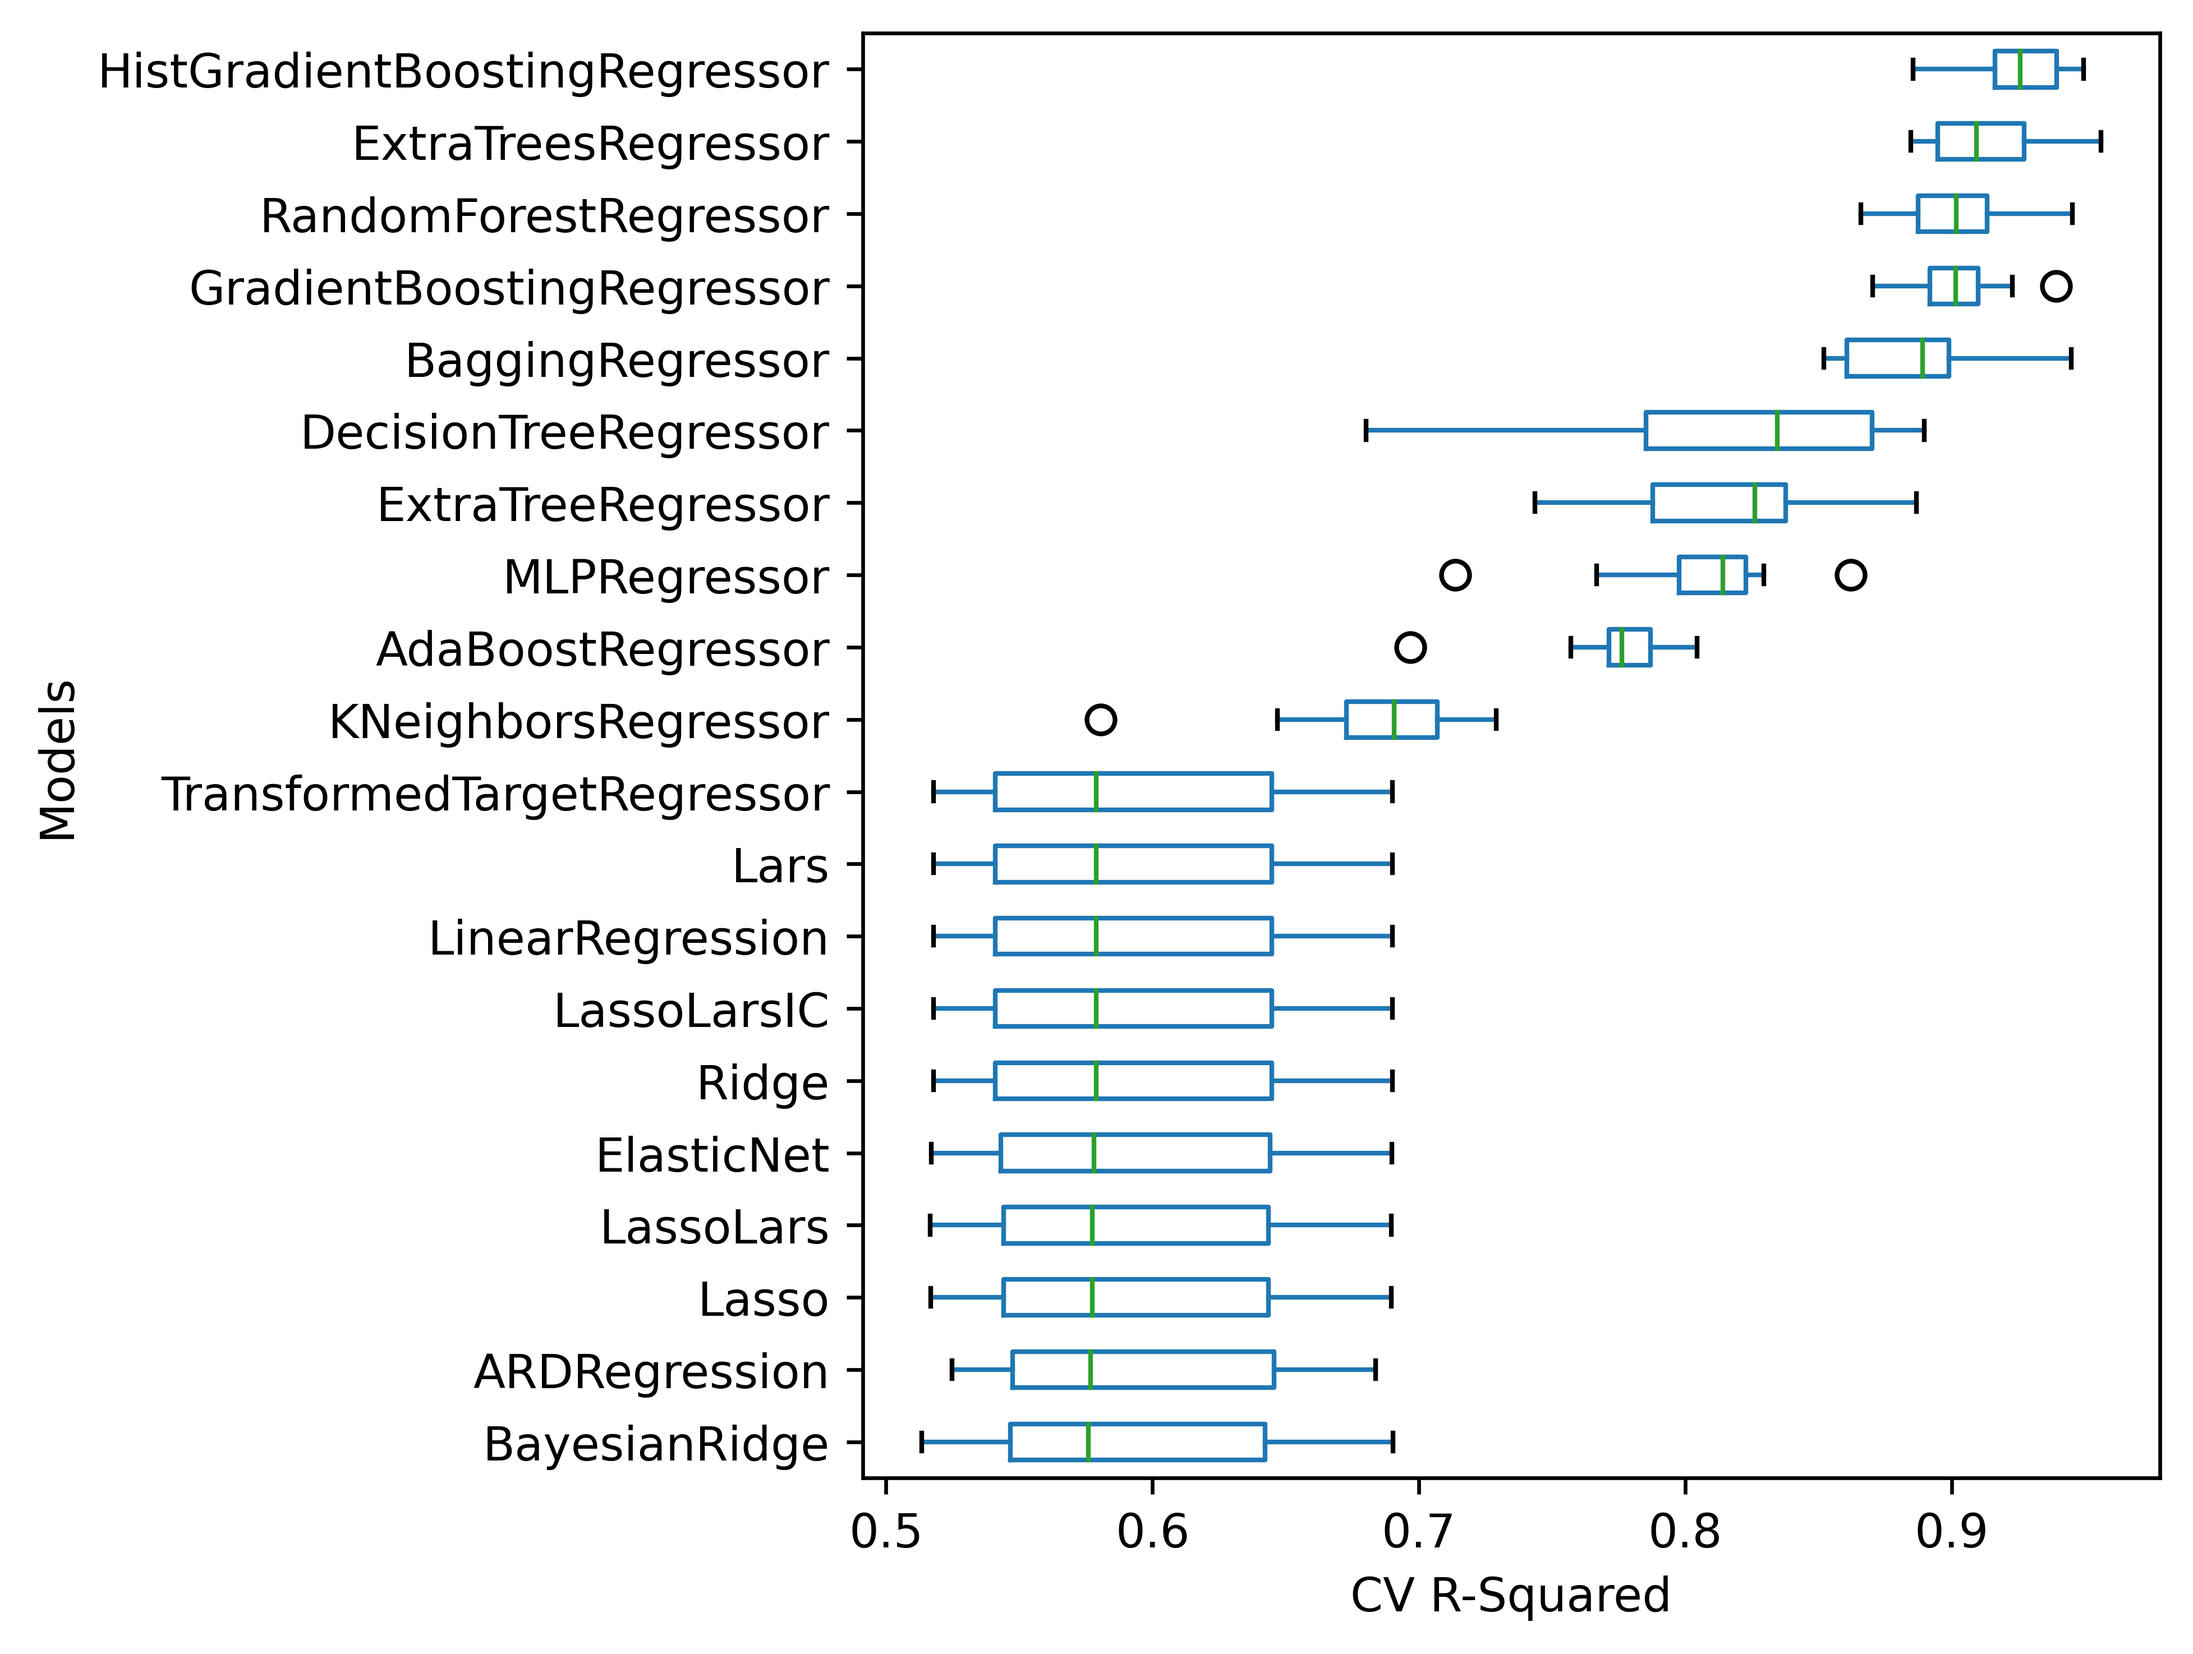
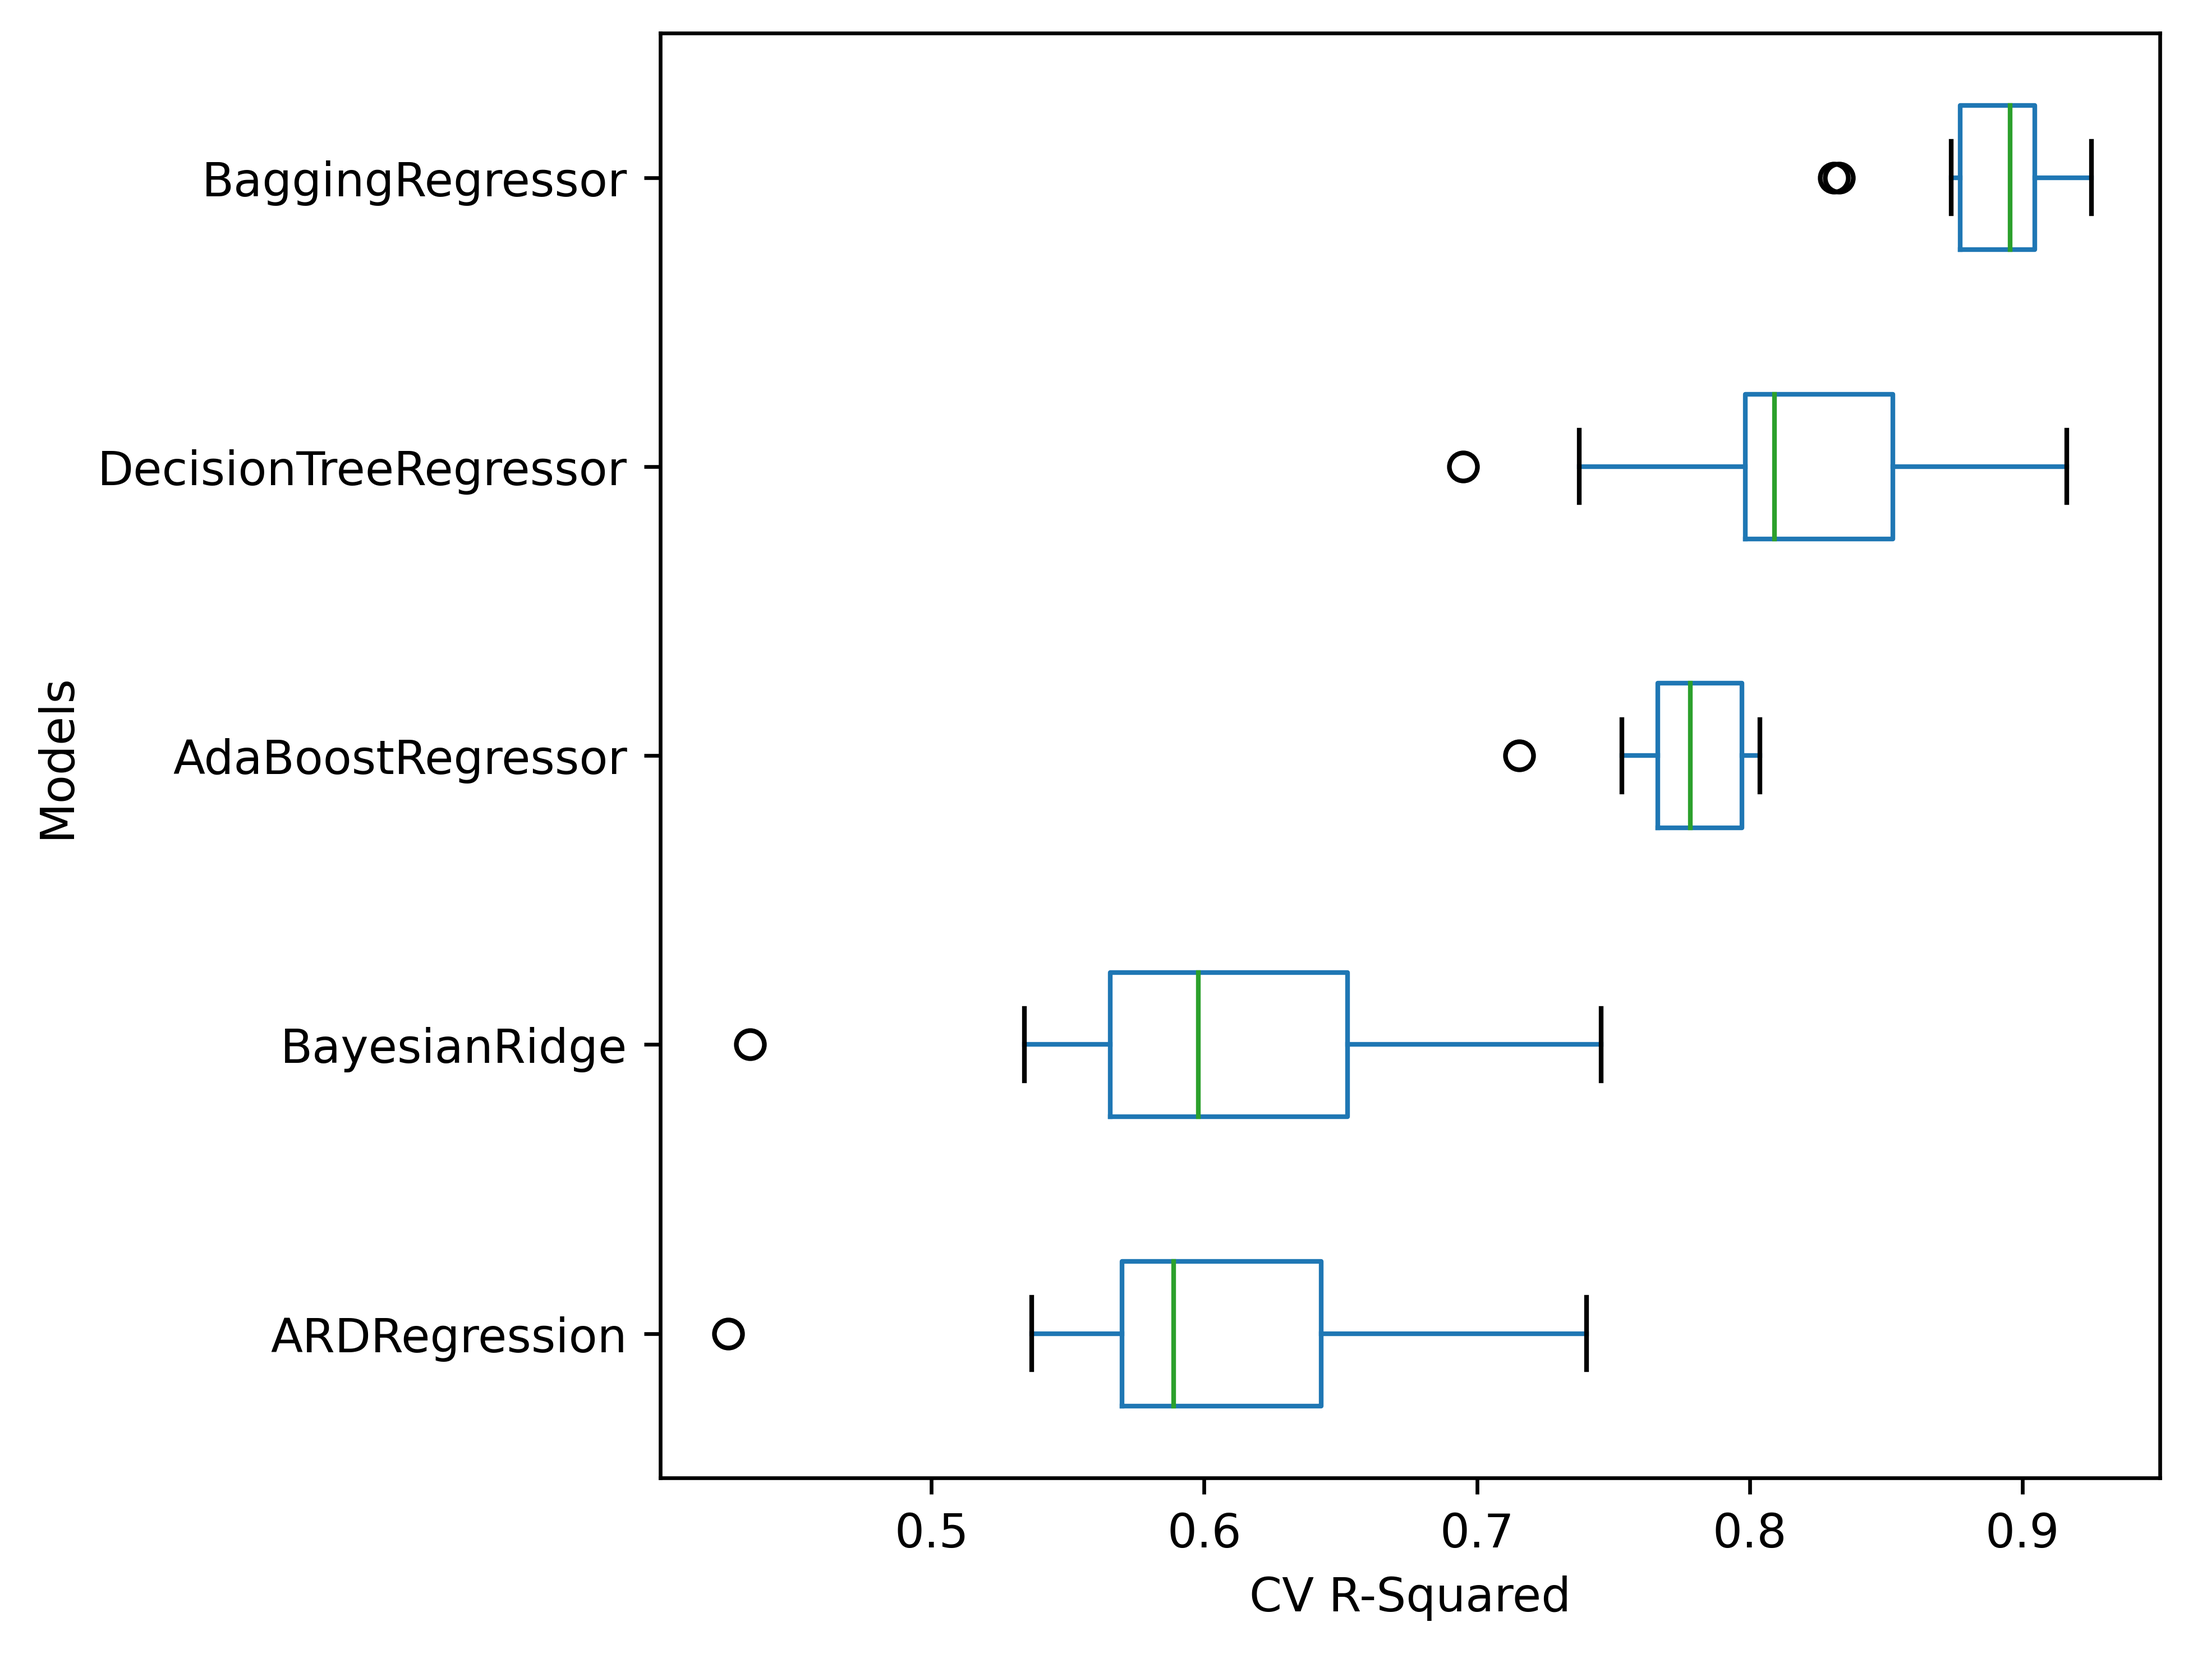
started parameterizing

diff --git a/AutoML/ScikitLearn/parSim_v5/utils.py b/AutoML/ScikitLearn/parSim_v5/utils.py
@@ -71,14 +71,14 @@ def create_strat_cat(raw_data) -> pd.DataFrame:
     data_w_strat_cat = raw_data
     return data_w_strat_cat, strat_label
 
-def data_split(datapath) -> pd.DataFrame:
+def data_split(datapath, test_set_size) -> pd.DataFrame:
     """
     This function will take a relative datapath of a dataset in csv format and will split the data into training attributes, 
     training labels, test attributes, and test labels according to the distribution of a categorical class label.
     """
     raw_data = load_data(datapath)
     data_w_strat_cat, strat_label = create_strat_cat(raw_data)
-    split = StratifiedShuffleSplit(n_splits=1,test_size=0.2,random_state=42)
+    split = StratifiedShuffleSplit(n_splits=1,test_size=test_set_size)
     for train_index, test_index in split.split(data_w_strat_cat,data_w_strat_cat[f"{strat_label}_cat"]):
         train_set = data_w_strat_cat.loc[train_index]
         test_set = data_w_strat_cat.loc[test_index]
@@ -95,10 +95,10 @@ def data_split(datapath) -> pd.DataFrame:
 
     return train_attrib, train_labels, test_attrib, test_labels
 
-def gen_cv_samples(X_train_df, y_train_df):
+def gen_cv_samples(X_train_df, y_train_df, n_cv_folds):
     """
     Generates a nested array of length k (where k is the number of cv folds)
-    Each sub-tuple contains 9 folds formed into training data and a 10th left out as test data
+    Each sub-tuple contains k folds formed into training data and the k+1 fold left out as test data
     
     Args: 
         X_train (nd.array) - Training data already processed
@@ -108,7 +108,7 @@ def gen_cv_samples(X_train_df, y_train_df):
         train/test data (tuples) - nested_samples gets broken down into four list
     """
     X_train, y_train = X_train_df.values, y_train_df.values
-    kf = KFold(n_splits = 10, shuffle = True, random_state = 2)
+    kf = KFold(n_splits = n_cv_folds, shuffle = True)
     kf_indices = [(train, test) for train, test in kf.split(X_train, y_train)]
     nested_samples = [(X_train[train_idxs], y_train[train_idxs], X_train[test_idxs], y_train[test_idxs]) for train_idxs, test_idxs in kf_indices]
     X_tr, y_tr, X_te, y_te = [], [], [], []
@@ -118,7 +118,7 @@ def gen_cv_samples(X_train_df, y_train_df):
 
     return (X_tr, y_tr, X_te, y_te)
 
-def comparison(datapath, n_regressors, metric_list, n_vizualized, metric_help, score_method='Root Mean Squared Error') -> None:
+def comparison(datapath, n_regressors, metric_list, metric_help, n_vizualized_bp=-1, n_vizualized_tb=-1, test_set_size=0.2, n_cv_folds=10, score_method='Root Mean Squared Error') -> None:
     """
     This function will perform cross-validation training across multiple regressor types for one dataset. 
     The cross-validation scores will be vizualized in a box plot chart, displaying regressor performance across
@@ -128,16 +128,16 @@ def comparison(datapath, n_regressors, metric_list, n_vizualized, metric_help, s
     """
     regs, reg_names = get_all_regs()
     regs, reg_names = regs[0:n_regressors], reg_names[0:n_regressors]
-    train_attrib, train_labels, test_attrib, test_labels = data_split(datapath)
+    train_attrib, train_labels, test_attrib, test_labels = data_split(datapath, test_set_size)
 
     metric_list = [score_method] + metric_list
     for i, item in enumerate(metric_list[1:]):
         if item == metric_list[0]:
             del metric_list[i+1]
 
-    cv_X_train, cv_y_train, cv_X_test, cv_y_test = gen_cv_samples(train_attrib, train_labels)
+    cv_X_train, cv_y_train, cv_X_test, cv_y_test = gen_cv_samples(train_attrib, train_labels, n_cv_folds)
     start = perf_counter()
-    args_lst = [(regs[i // 10], reg_names[i // 10], metric_list, metric_help, cv_X_train[i % 10], cv_y_train[i % 10], cv_X_test[i % 10], cv_y_test[i % 10]) for i in range(len(regs) * 10)]
+    args_lst = [(regs[i // n_cv_folds], reg_names[i // n_cv_folds], metric_list, metric_help, cv_X_train[i % n_cv_folds], cv_y_train[i % n_cv_folds], cv_X_test[i % n_cv_folds], cv_y_test[i % n_cv_folds]) for i in range(len(regs) * n_cv_folds)]
     multiprocessing.set_start_method("spawn")
     with multiprocessing.Pool(processes=8) as pool:
         results = pool.starmap(run, args_lst)
@@ -151,14 +151,14 @@ def comparison(datapath, n_regressors, metric_list, n_vizualized, metric_help, s
             else:
                 org_results[reg_name] = [single_reg_dict]
 
-    fin_org_results = {k: v for k,v in org_results.items() if len(v) == 10}
+    fin_org_results = {k: v for k,v in org_results.items() if len(v) == n_cv_folds}
 
     stop = perf_counter()
     print(f"Time to execute regression: {stop - start:.2f}s")
 
-    figs = [test_best(fin_org_results, metric_list, test_attrib, test_labels, metric_help)]
+    figs = [test_best(fin_org_results, metric_list, test_attrib, test_labels, metric_help, n_vizualized_tb)]
     for index in range(len(metric_list)):
-        figs += [boxplot(fin_org_results, metric_list, metric_help, n_vizualized, index)]
+        figs += [boxplot(fin_org_results, metric_list, metric_help, n_vizualized_bp, index)]
     for k in range(len(figs)):
         figs[k].savefig(f'AutoML/ScikitLearn/parSim_v5/par_1/figure_{k}.png', bbox_inches='tight', dpi=600.0)
     pass
@@ -185,7 +185,7 @@ def run(reg, reg_name, metric_list, metric_help, train_attrib, train_labels, tes
         pass
 
 
-def boxplot(fin_org_results, metric_list, metric_help, n_vizualized, index):
+def boxplot(fin_org_results, metric_list, metric_help, n_vizualized_bp, index):
     """
     This function will return a box plot chart displaying the cross-validation scores of various regressors for a given metric.
     The box plot chart will be in descending order by median performance. The chart will be saved to the user's CPU as a png file.
@@ -203,16 +203,13 @@ def boxplot(fin_org_results, metric_list, metric_help, n_vizualized, index):
     df_sorted = df[sorted_index]
 
     #Creating box plot figure of best n regressors.
-    df_sorted.iloc[:,len(df_sorted.columns)-n_vizualized:].boxplot(vert=False,grid=False)
+    df_sorted.iloc[:,len(df_sorted.columns)-n_vizualized_bp:].boxplot(vert=False,grid=False)
     plt.xlabel(f'CV {metric}')
     plt.ylabel('Models')
     return boxfig
 
 
-
-
-
-def test_best(fin_org_results, metric_list, test_attrib, test_labels, metric_help):
+def test_best(fin_org_results, metric_list, test_attrib, test_labels, metric_help, n_vizualized_tb):
     """
     This function will take the best performing model on each regressor type generated by cross-validation training and 
     apply it to the set of test data. The performance of the regs on the test instances will be displayed on a table and
@@ -243,13 +240,15 @@ def test_best(fin_org_results, metric_list, test_attrib, test_labels, metric_hel
 
     df = pd.DataFrame(data=output, index=rows, columns=columns)
 
-    sorted_df = df.sort_values(by=columns[0], axis=0, ascending=not(metric_help[columns[0]][0]))
-    print(sorted_df)
+    df_sorted = df.sort_values(by=columns[0], axis=0, ascending=not(metric_help[columns[0]][0]))
+    print(df_sorted)
+
+    df_sorted = df_sorted.iloc[:n_vizualized_tb]
 
     fig, ax = plt.subplots()
     fig.patch.set_visible(False)
     ax.axis('off')
     ax.axis('tight')
-    ax.table(cellText=sorted_df.values, rowLabels=sorted_df.index, colLabels=sorted_df.columns, loc='center')
+    ax.table(cellText=df_sorted.values, rowLabels=df_sorted.index, colLabels=df_sorted.columns, loc='center')
     fig.tight_layout()
     return fig

diff --git a/AutoML/ScikitLearn/parSim_v5/main.py b/AutoML/ScikitLearn/parSim_v5/main.py
@@ -7,9 +7,8 @@ sys.path.append(os.getcwd())
 from utils import *
 
 paramdict = {'datapath': 'AutoML\ConcreteData\Concrete_Data.csv',
-            'n_regressors': -1,
+            'n_regressors': 5,
             'metric_list': ['Mean Squared Error','Mean Absolute Error','R-Squared', 'Root Mean Squared Error'],
-            'n_vizualized': 20,
             #GENERAL FORM of metric_help: { 'metric': [ higher score is better?, positive or negative score values, accociated stat function ] } 
             'metric_help': {'Explained Variance': [True, 1, metrics.explained_variance_score], 'Max Error': [False, 1, metrics.max_error],
                             'Mean Absolute Error': [False, -1, metrics.mean_absolute_error], 'Mean Squared Error': [False, -1, metrics.mean_squared_error],
@@ -19,6 +18,10 @@ paramdict = {'datapath': 'AutoML\ConcreteData\Concrete_Data.csv',
                             'Mean Absolute Percentage Error': [False, -1, metrics.mean_absolute_percentage_error], 'D-Squared Absolute Error Score': [True, 1, metrics.d2_absolute_error_score],
                             'D-Squared Pinball Score': [True, 1, metrics.d2_pinball_score], 'D-Squared Tweedie Score': [True, 1, metrics.d2_tweedie_score]
                             },
+            'n_vizualized_bp': 20,
+            'n_vizualized_tb': 10,
+            'test_set_size': 0.2,
+            'n_cv_folds': 10,
             'score_method': 'Root Mean Squared Error'
             }
 
